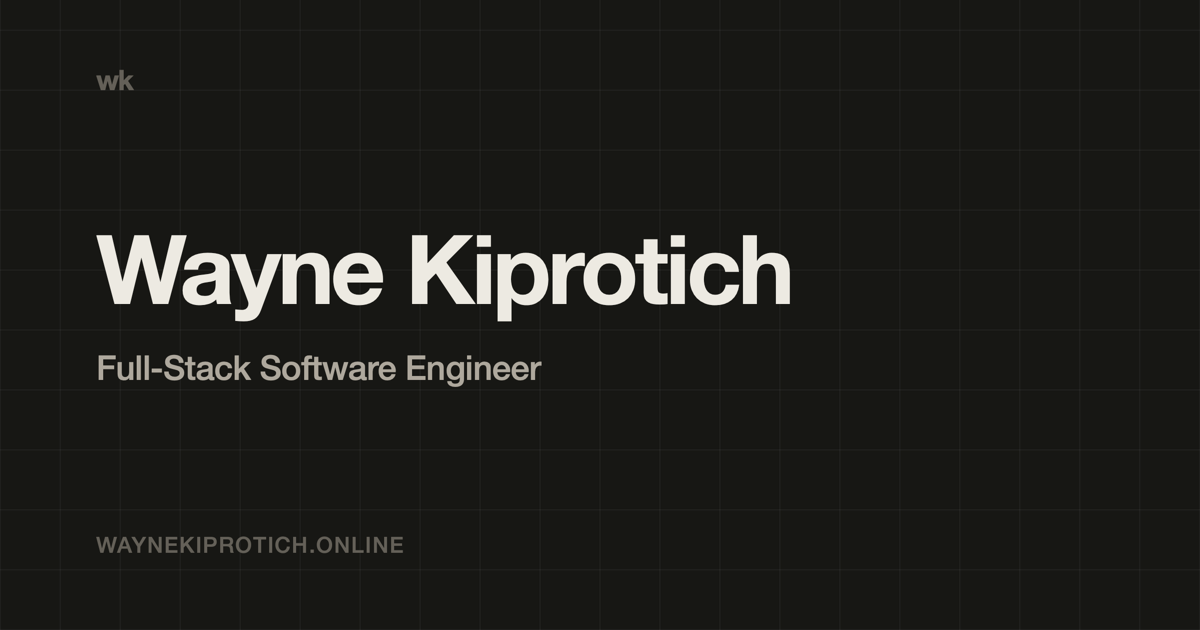
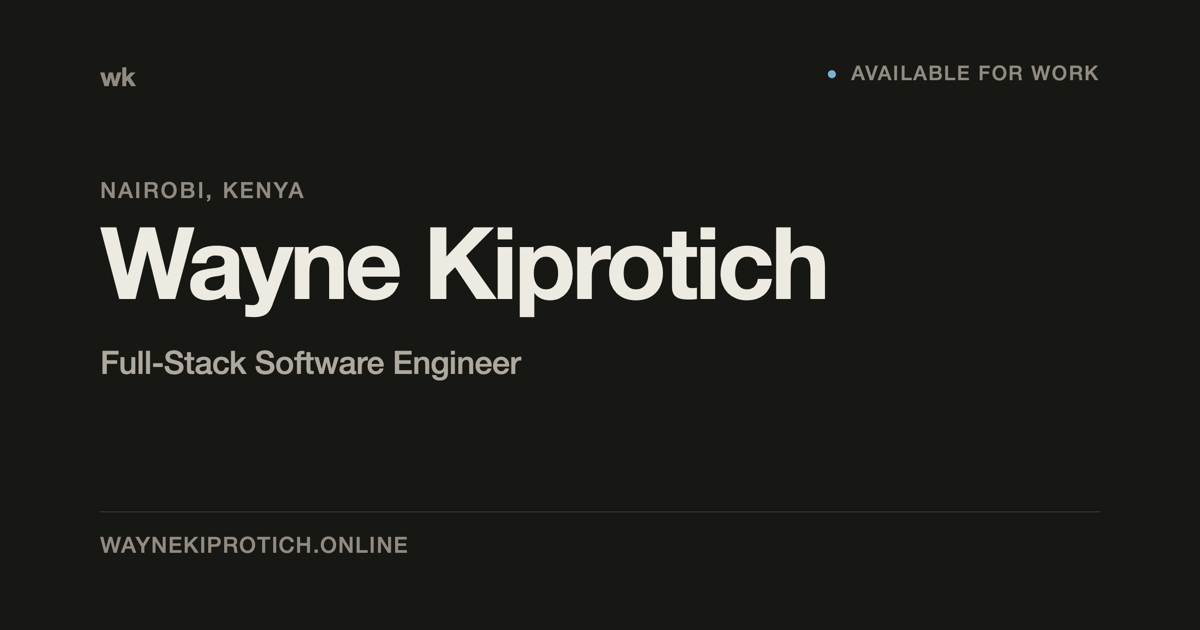
Redesign OG image: drop the grid, tighten to a cleaner minimal card
Removes the faint background grid (busy at OG-card size, reads as noise
in a link preview) and rebalances vertical rhythm — eyebrow sits right
above the name instead of a separate top mark, one hairline rule
separates the URL from the name block instead of a large dead gap.
Adds a small availability dot + label, top-right, mirroring the site's
own chip so the shared-link preview matches the page it opens into.

diff --git a/assets-source/og-image-generator.swift b/assets-source/og-image-generator.swift
@@ -1,53 +1,81 @@
 import AppKit
 
+// Minimal OG card: solid ground, one hairline rule, nothing decorative.
+// Same palette as the site's dark mode so a shared link matches the page
+// it opens into.
+
 let W: CGFloat = 1200
 let H: CGFloat = 630
 
 let img = NSImage(size: NSSize(width: W, height: H))
 img.lockFocus()
 
-let ink = NSColor(red: 23/255, green: 22/255, blue: 19/255, alpha: 1)   // dark-mode bone (bg)
-let bone = NSColor(red: 237/255, green: 234/255, blue: 226/255, alpha: 1) // dark-mode ink (text)
+let ink = NSColor(red: 23/255, green: 22/255, blue: 19/255, alpha: 1)     // bg
+let bone = NSColor(red: 237/255, green: 234/255, blue: 226/255, alpha: 1) // primary text
 let muted = NSColor(red: 174/255, green: 168/255, blue: 157/255, alpha: 1)
-let faint = NSColor(red: 100/255, green: 96/255, blue: 88/255, alpha: 1)
+let faint = NSColor(red: 144/255, green: 138/255, blue: 128/255, alpha: 1)
+let line = NSColor(red: 237/255, green: 234/255, blue: 226/255, alpha: 0.12)
 
 ink.setFill()
 NSRect(x: 0, y: 0, width: W, height: H).fill()
 
-// Faint grid, echoing the site's editorial atmosphere without a raster texture.
-let grid = NSColor(white: 1, alpha: 0.035)
-grid.setStroke()
-let step: CGFloat = 60
-var x: CGFloat = 0
-while x <= W { let p = NSBezierPath(); p.move(to: NSPoint(x: x, y: 0)); p.line(to: NSPoint(x: x, y: H)); p.lineWidth = 1; p.stroke(); x += step }
-var y: CGFloat = 0
-while y <= H { let p = NSBezierPath(); p.move(to: NSPoint(x: 0, y: y)); p.line(to: NSPoint(x: W, y: y)); p.lineWidth = 1; p.stroke(); y += step }
+let marginX: CGFloat = 100
 
-let marginX: CGFloat = 96
+// "wk" mark, top-left.
+let markFont = NSFont(name: "HelveticaNeue-Bold", size: 26) ?? NSFont.boldSystemFont(ofSize: 26)
+NSAttributedString(
+    string: "wk",
+    attributes: [.font: markFont, .foregroundColor: faint, .kern: -0.6]
+).draw(at: CGPoint(x: marginX, y: H - 92))
 
-// Small "wk" mark, top-left — matches the nav-dock brand mark.
-let markFont = NSFont(name: "HelveticaNeue-Bold", size: 28) ?? NSFont.boldSystemFont(ofSize: 28)
-let markAttrs: [NSAttributedString.Key: Any] = [.font: markFont, .foregroundColor: faint, .kern: -0.8]
-NSAttributedString(string: "wk", attributes: markAttrs).draw(at: CGPoint(x: marginX, y: H - 96))
+// Availability, top-right — a quiet dot + label, mirroring the site's chip.
+let availFont = NSFont(name: "HelveticaNeue-Medium", size: 20) ?? NSFont.systemFont(ofSize: 20, weight: .medium)
+let availStr = "AVAILABLE FOR WORK"
+let availAttrs: [NSAttributedString.Key: Any] = [.font: availFont, .foregroundColor: faint, .kern: 1.6]
+let availSize = NSAttributedString(string: availStr, attributes: availAttrs).size()
+let availY = H - 84
+NSAttributedString(string: availStr, attributes: availAttrs)
+    .draw(at: CGPoint(x: W - marginX - availSize.width, y: availY))
+let dotR: CGFloat = 4
+let dotPath = NSBezierPath(ovalIn: NSRect(
+    x: W - marginX - availSize.width - 16 - dotR * 2, y: availY + 6, width: dotR * 2, height: dotR * 2
+))
+NSColor(red: 122/255, green: 178/255, blue: 214/255, alpha: 1).setFill() // sky accent
+dotPath.fill()
 
-// Name — large, bold, tight tracking, left-aligned (matches the hero).
-let nameFont = NSFont(name: "HelveticaNeue-Bold", size: 96) ?? NSFont.boldSystemFont(ofSize: 96)
+// Eyebrow — small, tracked, sits just above the name.
+let eyebrowFont = NSFont(name: "HelveticaNeue-Medium", size: 22) ?? NSFont.systemFont(ofSize: 22, weight: .medium)
+let eyebrowAttrs: [NSAttributedString.Key: Any] = [.font: eyebrowFont, .foregroundColor: faint, .kern: 2.2]
+let nameY: CGFloat = H / 2 - 6
+NSAttributedString(string: "NAIROBI, KENYA", attributes: eyebrowAttrs)
+    .draw(at: CGPoint(x: marginX, y: nameY + 118))
+
+// Name — large, bold, tight tracking.
+let nameFont = NSFont(name: "HelveticaNeue-Bold", size: 100) ?? NSFont.boldSystemFont(ofSize: 100)
 let nameAttrs: [NSAttributedString.Key: Any] = [.font: nameFont, .foregroundColor: bone, .kern: -3.5]
-let nameStr = NSAttributedString(string: "Wayne Kiprotich", attributes: nameAttrs)
-let nameY = H / 2 - 10
-nameStr.draw(at: CGPoint(x: marginX, y: nameY))
+NSAttributedString(string: "Wayne Kiprotich", attributes: nameAttrs)
+    .draw(at: CGPoint(x: marginX, y: nameY))
 
 // Role line.
-let roleFont = NSFont(name: "HelveticaNeue-Medium", size: 34) ?? NSFont.systemFont(ofSize: 34, weight: .medium)
-let roleAttrs: [NSAttributedString.Key: Any] = [.font: roleFont, .foregroundColor: muted, .kern: -0.4]
+let roleFont = NSFont(name: "HelveticaNeue-Medium", size: 32) ?? NSFont.systemFont(ofSize: 32, weight: .medium)
+let roleAttrs: [NSAttributedString.Key: Any] = [.font: roleFont, .foregroundColor: muted, .kern: -0.3]
 NSAttributedString(string: "Full-Stack Software Engineer", attributes: roleAttrs)
-    .draw(at: CGPoint(x: marginX, y: nameY - 62))
+    .draw(at: CGPoint(x: marginX, y: nameY - 60))
 
-// URL, bottom-left, de-emphasized.
+// One hairline rule, then the URL below it — the only structure in the
+// lower third, kept deliberately quiet.
+let ruleY: CGFloat = 118
+let rule = NSBezierPath()
+rule.move(to: CGPoint(x: marginX, y: ruleY))
+rule.line(to: CGPoint(x: W - marginX, y: ruleY))
+rule.lineWidth = 1
+line.setStroke()
+rule.stroke()
+
 let urlFont = NSFont(name: "HelveticaNeue-Medium", size: 22) ?? NSFont.systemFont(ofSize: 22, weight: .medium)
 let urlAttrs: [NSAttributedString.Key: Any] = [.font: urlFont, .foregroundColor: faint, .kern: 1.2]
 NSAttributedString(string: "WAYNEKIPROTICH.ONLINE", attributes: urlAttrs)
-    .draw(at: CGPoint(x: marginX, y: 72))
+    .draw(at: CGPoint(x: marginX, y: ruleY - 46))
 
 img.unlockFocus()
 
